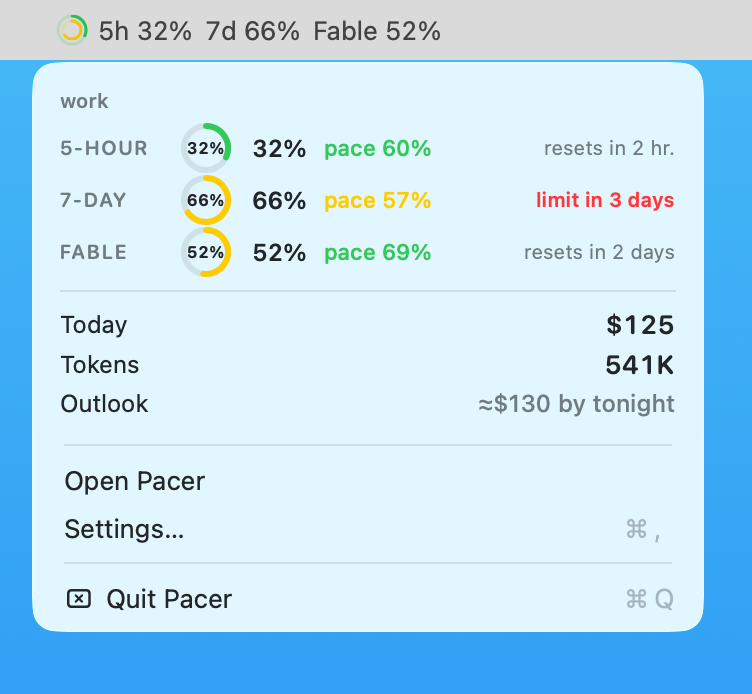
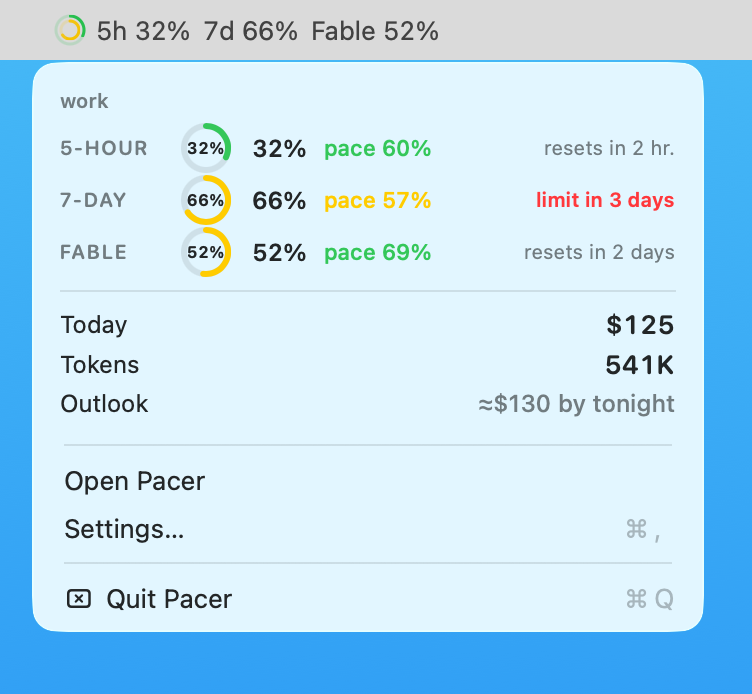
Screenshots: pin the menu bar clock before the status item lays out (#238) (#240)
* Screenshots: pin the menu bar clock before the status item lays out (#238)

The helper pinned the system clock to 9:41 only for the photo itself. By
then the app had opened the menu and computed the crop from where its
status item sat beside the runner's real clock; pinning re-laid out the
bar under the open menu, so the item moved by however wide that day's
date was (x 1172 on a Wednesday, 1175 on a Friday, 1173 pinned). Every
PR marked ready on a new weekday committed a shifted menu bar shot.

The app now asks the helper to pin the clock (a new "clock" request)
before either menu bar scene installs its item, and restores it after
both. The helper's own pin stays as a logged fallback.

Claude-Session: https://claude.ai/code/session_01W1xUCZ5D5VDuQUtj8Sgj65

* docs: regenerate README screenshots

Rendered by .github/workflows/screenshots.yml (run 37925266758) on macos-26 — the real Pacer window over synthetic data.

---------

Changed region(s): [[0.0612, 0.0, 0.5811, 0.0605]]

diff --git a/bin/pacer-screenshot-capture.swift b/bin/pacer-screenshot-capture.swift
@@ -153,7 +153,7 @@ func pinWallpaper(dark: Bool) {
 }
 
 struct Request: Decodable {
-    /// "window" (default), "menubar", or "appearance".
+    /// "window" (default), "menubar", "appearance" or "clock".
     var kind: String?
     var windowID: UInt32?
     var scale: Double?
@@ -163,6 +163,8 @@ struct Request: Decodable {
     /// one card of the real window.
     var crop: [Double]?
     var dark: Bool?
+    /// "clock": true pins the system clock, false puts real time back.
+    var pin: Bool?
     var done: String?
     // "widgetsim" / "gallery" (widgets.png — see captureWidgetSim).
     var debug: String?
@@ -176,6 +178,8 @@ func handle(_ request: Request) async throws {
     case "window": try await capture(request)
     case "menubar": try await captureMenuBar(request)
     case "appearance": try setDarkMode(request.dark ?? false)
+    case "clock":
+        if request.pin == false { restoreSystemClock() } else { pinSystemClock() }
     case "widgetsim": try await captureWidgetSim(request)
     case "gallery": try composeGallery(request)
     default: throw fail("unknown request kind \(request.kind ?? "-")")
@@ -205,10 +209,24 @@ func captureMenuBar(_ request: Request) async throws {
     guard let r = request.rect, r.count == 4, let png = request.png else { throw fail("menubar: rect and png required") }
     let rect = CGRect(x: r[0], y: r[1], width: r[2], height: r[3])
     // The menu bar's clock reads 9:41 — Apple's own screenshot time — so its
-    // width cannot move the items beside it. Put back before anything else
-    // needs a true clock (TLS, git), even if this throws.
-    pinSystemClock()
-    defer { restoreSystemClock() }
+    // width cannot move the items beside it.
+    //
+    // The app pins it (a "clock" request) before it installs its status item,
+    // and puts it back after both menu bar scenes. Pinning only here was too
+    // late: the app had already placed the menu and computed this rectangle
+    // from where its item sat beside the runner's *real* clock, and pinning
+    // then re-laid out the bar under an open menu. Pacer's item slid by the
+    // difference between today's date and 2026-09-18 — 1172 on a Wednesday,
+    // 1175 on a Friday, against 1173 pinned — so every PR marked ready on a
+    // new weekday committed a shifted screenshot (#238).
+    //
+    // Pinning here remains as a fallback for an app that did not ask, with
+    // the same promise as before: real time back before anything needs it.
+    let pinnedHere = pinSystemClock()
+    if pinnedHere {
+        log("clock: WARNING pinned only at capture time; the menu was placed against the real clock and may sit off the item")
+    }
+    defer { if pinnedHere { restoreSystemClock() } }
     // The menu opens just after the request is written; let it finish animating,
     // and the bar redraw its clock.
     try await Task.sleep(for: .milliseconds(3500))
@@ -314,10 +332,13 @@ func sudo(_ args: [String]) -> Bool {
 
 /// Fri 2026-09-18 09:41 in the runner's own zone (`ScreenshotClock`'s date, so
 /// nothing in the shot says another day). CI only: it sets the machine's clock.
-func pinSystemClock() {
-    guard ProcessInfo.processInfo.environment["CI"] == "true", clockSaved == nil else { return }
+/// True when this call pinned it; false when it was already pinned (or not CI).
+@discardableResult
+func pinSystemClock() -> Bool {
+    guard ProcessInfo.processInfo.environment["CI"] == "true", clockSaved == nil else { return false }
     clockSaved = (Date(), ProcessInfo.processInfo.systemUptime)
     log("clock: pinning to 2026-09-18 09:41 (\(sudo(["date", "0918094126"]) ? "ok" : "FAILED"))")
+    return true
 }
 
 /// Real time back: the instant saved plus the monotonic time since, so the

diff --git a/App/Background/ScreenshotMode.swift b/App/Background/ScreenshotMode.swift
@@ -267,8 +267,18 @@ enum ScreenshotMode {
         captureShareCard(container: container)
 
         // Last: the dark one switches the whole system to dark mode.
+        //
+        // The menu bar's clock is pinned to 9:41 before either scene installs
+        // the status item, and stays pinned across both. Everything this
+        // process places — the menu, and the rectangle the helper crops — is
+        // worked out from where the item sits *now*, so the bar has to be in
+        // its photographed state first. Pinned only for the photo, the bar
+        // re-laid out under an already-open menu and the item moved by however
+        // wide the runner's real date was (#238).
+        let clockPinned = await pinMenuBarClock(true)
         await captureRealMenuBar("menubar", dark: false, installStatusItem: installStatusItem)
         await captureRealMenuBar("menubar-dark", dark: true, installStatusItem: installStatusItem)
+        if clockPinned { _ = await pinMenuBarClock(false) }
 
         log("screenshots complete")
     }
@@ -1507,6 +1517,21 @@ enum ScreenshotMode {
     }
 
     @MainActor private static var menuWarmed = false
+
+    /// Ask the capture helper to pin the system clock (or put it back). CI
+    /// only, like the menu bar scenes it serves; elsewhere it does nothing and
+    /// returns false.
+    @MainActor
+    private static func pinMenuBarClock(_ pin: Bool) async -> Bool {
+        guard activatesForCapture, let dir = captureDirectory else { return false }
+        let ok = await helperRequest(dir, "clock", ["pin": pin], timeout: 20)
+        if !ok { note("could not \(pin ? "pin" : "restore") the system clock for the menu bar scenes") }
+        // The bar re-lays out around the new clock text. Each scene settles
+        // again after installing its item; this covers an item that already
+        // existed when the clock changed.
+        if ok && pin { await settle(seconds: 1) }
+        return ok
+    }
 
     /// Ask the capture helper for something and wait for it to be done.
     @MainActor

diff --git a/docs/screenshots.md b/docs/screenshots.md
@@ -137,10 +137,13 @@ When that flag is set, `PacerAppDelegate` takes a separate path:
     each appearance change. Mac Blue itself, even pinned to one static frame,
     came out ~66k pixels different (up to 143 levels, thin edges) between runs
     hours apart.
-  - **System clock:** while the menu bar is photographed the runner's clock is
-    set to Fri 2026-09-18 09:41, so the bar's clock text cannot move the items
-    beside it. The helper puts real time back right after (and the workflow
-    runs an NTP sync as a safety net before any push).
+  - **System clock:** for the two menu bar scenes the runner's clock is set to
+    Fri 2026-09-18 09:41, so the bar's clock text cannot move the items beside
+    it. The app asks the helper to pin it *before* it installs its status item
+    and puts real time back after both scenes (the workflow also runs an NTP
+    sync as a safety net before any push). Pinned only for the photo, the menu
+    and the crop were placed against the runner's real date and the bar then
+    re-laid out under them: the item sat 1–3 pt off, by weekday (#238).
   - **What is compared:** the helper writes `<shot>.rects.json` (Pacer's status
     item, menu and any tooltip window, in image pixels) to
     `$PACER_SCREENSHOT_SIDECARS` (the runner's temp dir, not docs/), and
